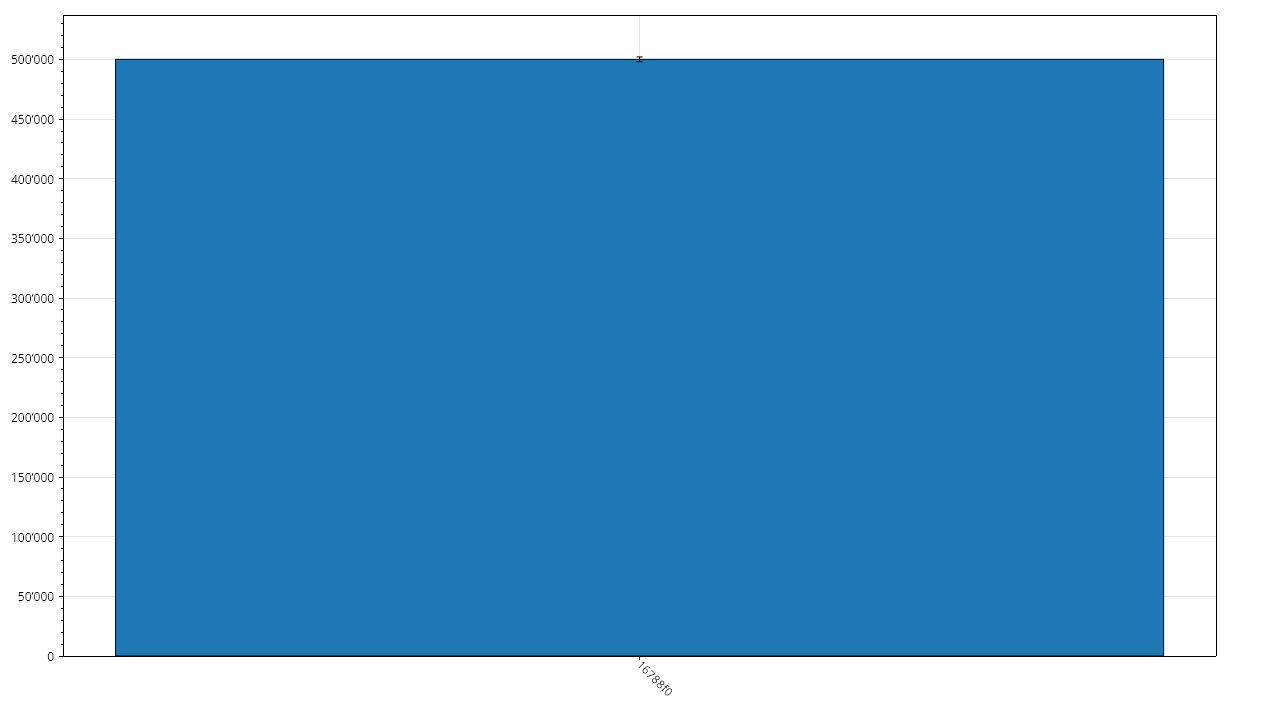
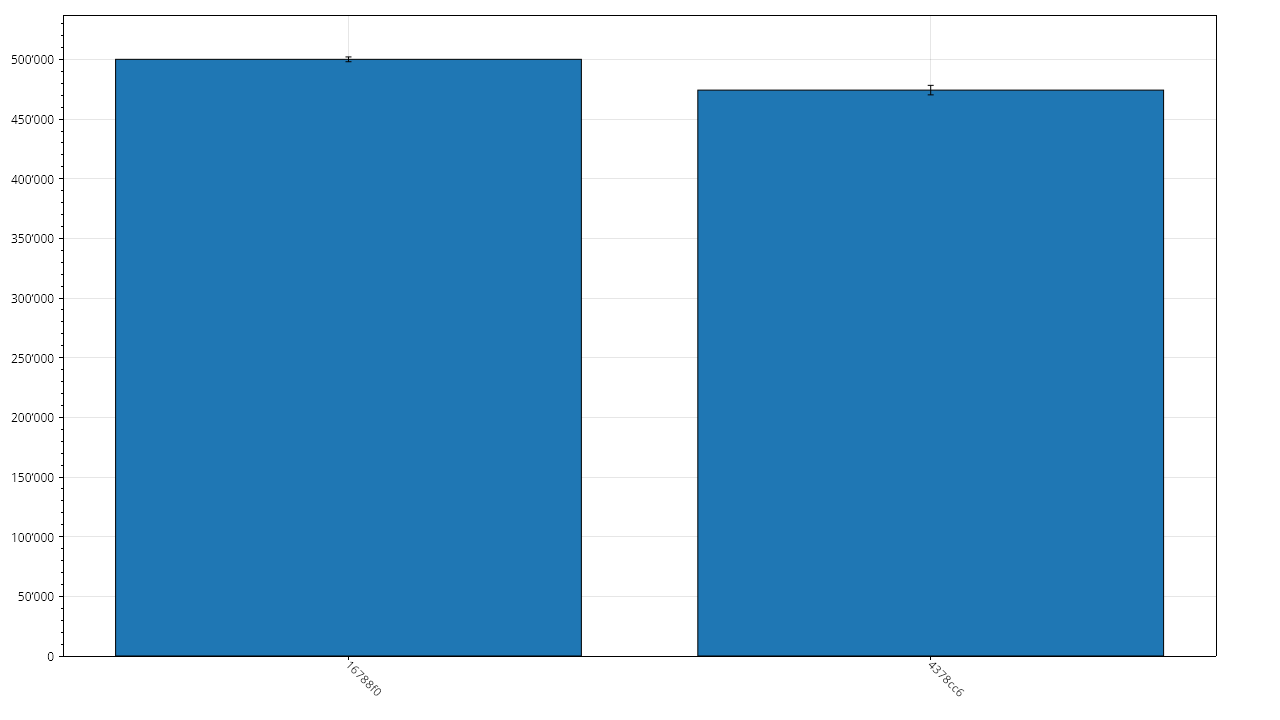
docs(Benchmark): add benchmark data

Changed region(s): [[0.4375, 0.0611, 0.9375, 0.9472], [0.7188, 0.9167, 0.75, 0.9472]]

diff --git a/Docs/Benchmarks/Summaries/InterpreterBench.md b/Docs/Benchmarks/Summaries/InterpreterBench.md
@@ -2,17 +2,17 @@
 
 ## Metadata
 
-- Git Commit: [16788f0](https://github.com/xXrederXx/YSharp/commit/16788f08154d605bbf2da0ecc504b50fc399c393)
-- Recorded At: 31.12.2025 17:01:02
+- Git Commit: [4378cc6](https://github.com/xXrederXx/YSharp/commit/4378cc6bbdd7e216fbbf46590e863b5dfc89a964)
+- Recorded At: 03.01.2026 17:26:23
 
 ## Results
 
 | Method                 | Time Mean  | Aprox. Error | Allocated | Gen 0 | Gen 1 | Gen 2 |
 | ---------------------- | ---------- | ------------ | --------- | ----- | ----- | ----- |
-| InterpreterBenchmarkL  | 218,537 ns | 609 ns       | 989 kb    | 118   | 43    | 0     |
-| InterpreterBenchmarkM  | 39,095 ns  | 158 ns       | 198 kb    | 24    | 4     | 0     |
-| InterpreterBenchmarkS  | 18,474 ns  | 89 ns        | 98 kb     | 12    | 1     | 0     |
-| InterpreterBenchmarkXL | 500,077 ns | 2,009 ns     | 1,977 kb  | 236   | 127   | 0     |
+| InterpreterBenchmarkL  | 217,312 ns | 807 ns       | 989 kb    | 118   | 43    | 0     |
+| InterpreterBenchmarkM  | 38,259 ns  | 305 ns       | 198 kb    | 24    | 4     | 0     |
+| InterpreterBenchmarkS  | 18,163 ns  | 117 ns       | 98 kb     | 12    | 1     | 0     |
+| InterpreterBenchmarkXL | 474,285 ns | 3,987 ns     | 1,977 kb  | 236   | 127   | 0     |
 
 ## History
 

diff --git a/Docs/Benchmarks/Summaries/ParserBench.md b/Docs/Benchmarks/Summaries/ParserBench.md
@@ -2,17 +2,17 @@
 
 ## Metadata
 
-- Git Commit: [16788f0](https://github.com/xXrederXx/YSharp/commit/16788f08154d605bbf2da0ecc504b50fc399c393)
-- Recorded At: 31.12.2025 17:01:02
+- Git Commit: [4378cc6](https://github.com/xXrederXx/YSharp/commit/4378cc6bbdd7e216fbbf46590e863b5dfc89a964)
+- Recorded At: 03.01.2026 17:26:23
 
 ## Results
 
 | Method            | Time Mean    | Aprox. Error | Allocated | Gen 0 | Gen 1 | Gen 2 |
 | ----------------- | ------------ | ------------ | --------- | ----- | ----- | ----- |
-| ParserBenchmarkL  | 1,148,439 ns | 828 ns       | 4,048 kb  | 492   | 268   | 35    |
-| ParserBenchmarkM  | 146,621 ns   | 493 ns       | 810 kb    | 97    | 32    | 0     |
-| ParserBenchmarkS  | 68,108 ns    | 133 ns       | 400 kb    | 48    | 11    | 0     |
-| ParserBenchmarkXL | 3,282,298 ns | 1,744 ns     | 8,095 kb  | 984   | 754   | 70    |
+| ParserBenchmarkL  | 1,152,948 ns | 3,267 ns     | 4,048 kb  | 492   | 268   | 35    |
+| ParserBenchmarkM  | 156,564 ns   | 5,340 ns     | 810 kb    | 97    | 32    | 0     |
+| ParserBenchmarkS  | 69,330 ns    | 1,217 ns     | 400 kb    | 48    | 11    | 0     |
+| ParserBenchmarkXL | 3,294,876 ns | 5,636 ns     | 8,095 kb  | 984   | 754   | 70    |
 
 ## History
 

diff --git a/Docs/Benchmarks/Summaries/LexerBench.md b/Docs/Benchmarks/Summaries/LexerBench.md
@@ -2,17 +2,17 @@
 
 ## Metadata
 
-- Git Commit: [16788f0](https://github.com/xXrederXx/YSharp/commit/16788f08154d605bbf2da0ecc504b50fc399c393)
-- Recorded At: 31.12.2025 17:01:02
+- Git Commit: [4378cc6](https://github.com/xXrederXx/YSharp/commit/4378cc6bbdd7e216fbbf46590e863b5dfc89a964)
+- Recorded At: 03.01.2026 17:26:23
 
 ## Results
 
 | Method           | Time Mean    | Aprox. Error | Allocated | Gen 0 | Gen 1 | Gen 2 |
 | ---------------- | ------------ | ------------ | --------- | ----- | ----- | ----- |
-| LexerBenchmarkL  | 3,103,993 ns | 26,343 ns    | 2,148 kb  | 293   | 289   | 86    |
-| LexerBenchmarkM  | 170,284 ns   | 268 ns       | 458 kb    | 54    | 18    | 0     |
-| LexerBenchmarkS  | 81,934 ns    | 147 ns       | 229 kb    | 27    | 7     | 0     |
-| LexerBenchmarkXL | 6,373,498 ns | 55,702 ns    | 4,293 kb  | 578   | 570   | 180   |
+| LexerBenchmarkL  | 3,020,793 ns | 43,540 ns    | 2,148 kb  | 301   | 297   | 94    |
+| LexerBenchmarkM  | 174,627 ns   | 1,129 ns     | 458 kb    | 54    | 36    | 0     |
+| LexerBenchmarkS  | 83,621 ns    | 387 ns       | 229 kb    | 27    | 10    | 0     |
+| LexerBenchmarkXL | 5,837,520 ns | 183,730 ns   | 4,293 kb  | 586   | 578   | 188   |
 
 ## History
 

diff --git a/Docs/Benchmarks/Summaries/RunTimeBench.md b/Docs/Benchmarks/Summaries/RunTimeBench.md
@@ -2,17 +2,17 @@
 
 ## Metadata
 
-- Git Commit: [16788f0](https://github.com/xXrederXx/YSharp/commit/16788f08154d605bbf2da0ecc504b50fc399c393)
-- Recorded At: 31.12.2025 17:01:02
+- Git Commit: [4378cc6](https://github.com/xXrederXx/YSharp/commit/4378cc6bbdd7e216fbbf46590e863b5dfc89a964)
+- Recorded At: 03.01.2026 17:26:23
 
 ## Results
 
 | Method        | Time Mean     | Aprox. Error | Allocated | Gen 0 | Gen 1 | Gen 2 |
 | ------------- | ------------- | ------------ | --------- | ----- | ----- | ----- |
-| RTBenchmarkL  | 6,565,071 ns  | 26,466 ns    | 7,186 kb  | 914   | 398   | 133   |
-| RTBenchmarkM  | 397,763 ns    | 1,158 ns     | 1,465 kb  | 175   | 75    | 0     |
-| RTBenchmarkS  | 186,131 ns    | 579 ns       | 727 kb    | 87    | 31    | 0     |
-| RTBenchmarkXL | 15,249,293 ns | 51,006 ns    | 14,365 kb | 1,828 | 844   | 281   |
+| RTBenchmarkL  | 6,470,974 ns  | 80,859 ns    | 7,186 kb  | 914   | 398   | 133   |
+| RTBenchmarkM  | 389,920 ns    | 1,351 ns     | 1,465 kb  | 175   | 75    | 0     |
+| RTBenchmarkS  | 182,210 ns    | 820 ns       | 727 kb    | 87    | 31    | 0     |
+| RTBenchmarkXL | 14,872,096 ns | 200,686 ns   | 14,365 kb | 1,828 | 844   | 281   |
 
 ## History
 
